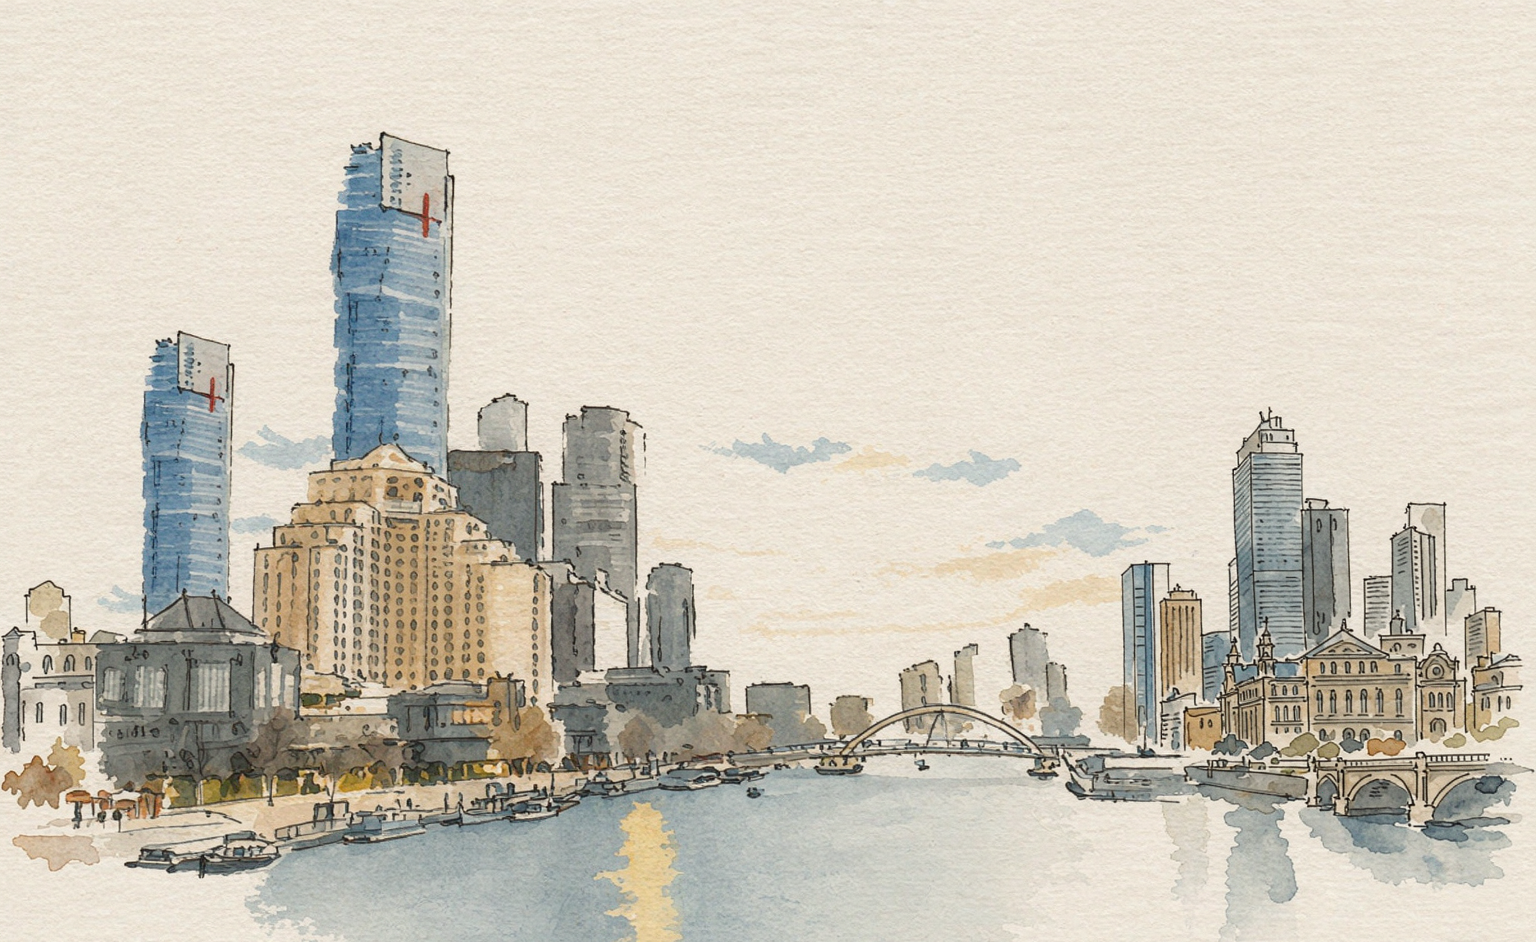
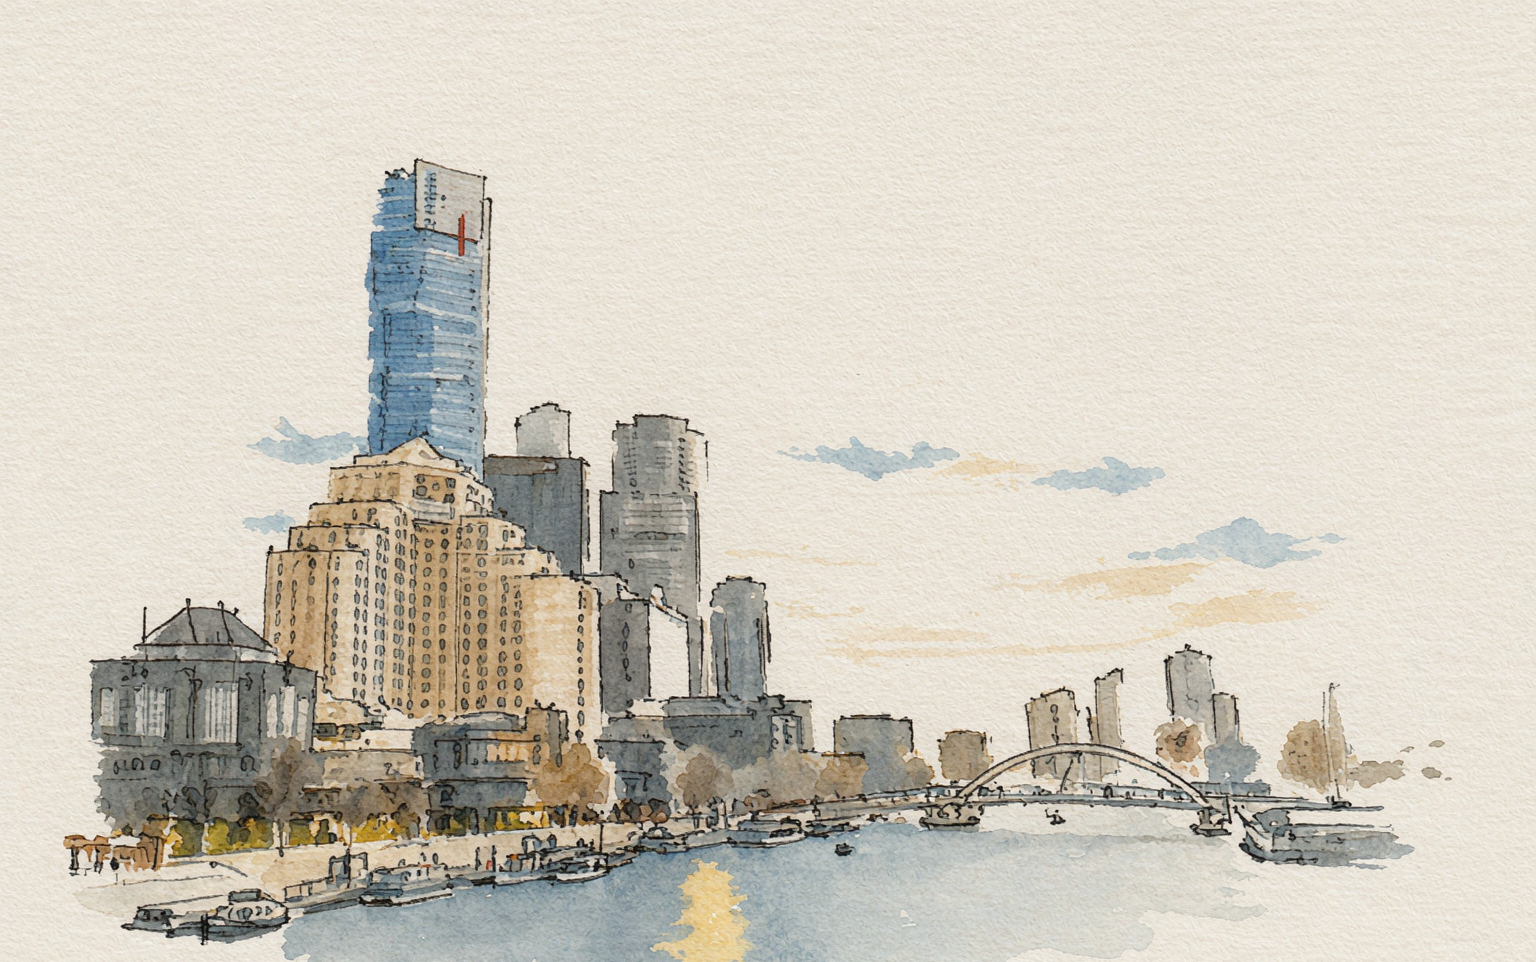
首屏重做：左侧密集城市天际线 + 大面积留白 + 其余页面背景改为纯色

diff --git a/src/app/globals.css b/src/app/globals.css
@@ -137,53 +137,6 @@ body {
   @apply font-sans antialiased;
 }
 
-/* ===== 素描水彩背景层：左右两侧各一幅，中间留白给内容 ===== */
-.sketch-backdrop {
-  position: fixed;
-  inset: 0;
-  z-index: -1;
-  pointer-events: none;
-  overflow: hidden;
-}
-
-.sketch-side {
-  position: absolute;
-  top: 50%;
-  width: min(44vw, 640px);
-  aspect-ratio: 1536 / 952;
-  background: url('/sketch-bg.png') center / contain no-repeat;
-  opacity: 0.75;
-  mix-blend-mode: multiply;
-  /* 用径向蒙版把图片边缘羽化进奶油底色，避免出现生硬的矩形边界 */
-  -webkit-mask-image: radial-gradient(
-    ellipse 72% 72% at 50% 50%,
-    #000 52%,
-    transparent 98%
-  );
-  mask-image: radial-gradient(
-    ellipse 72% 72% at 50% 50%,
-    #000 52%,
-    transparent 98%
-  );
-}
-
-.sketch-left {
-  left: 0;
-  transform: translateY(-50%);
-}
-
-.sketch-right {
-  right: 0;
-  transform: translateY(-50%) scaleX(-1);
-}
-
-/* 小屏（手机/窄平板）内容占满宽度，隐藏侧边素描避免干扰阅读 */
-@media (max-width: 900px) {
-  .sketch-side {
-    display: none;
-  }
-}
-
 /* 首屏压在画面上的小字：加奶油色光晕保证可读性 */
 .text-halo {
   text-shadow:

diff --git a/src/app/layout.tsx b/src/app/layout.tsx
@@ -47,11 +47,6 @@ export default function RootLayout({
   return (
     <html lang="zh-CN">
       <body className={`antialiased`}>
-        {/* 素描水彩背景：左右各一幅（右侧为镜像），衬托中间内容 */}
-        <div aria-hidden className="sketch-backdrop">
-          <div className="sketch-side sketch-left" />
-          <div className="sketch-side sketch-right" />
-        </div>
         {children}
       </body>
     </html>
